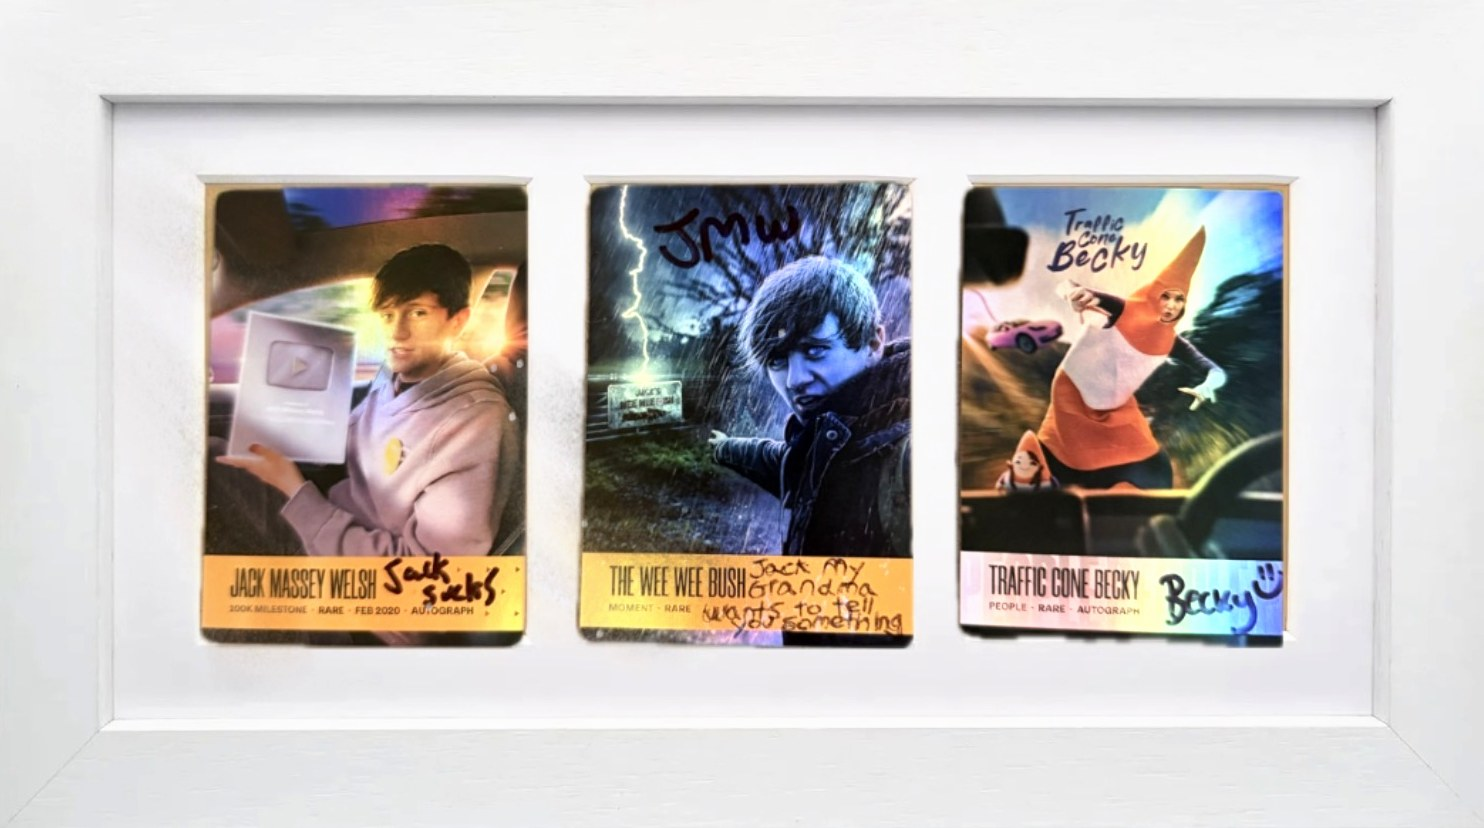
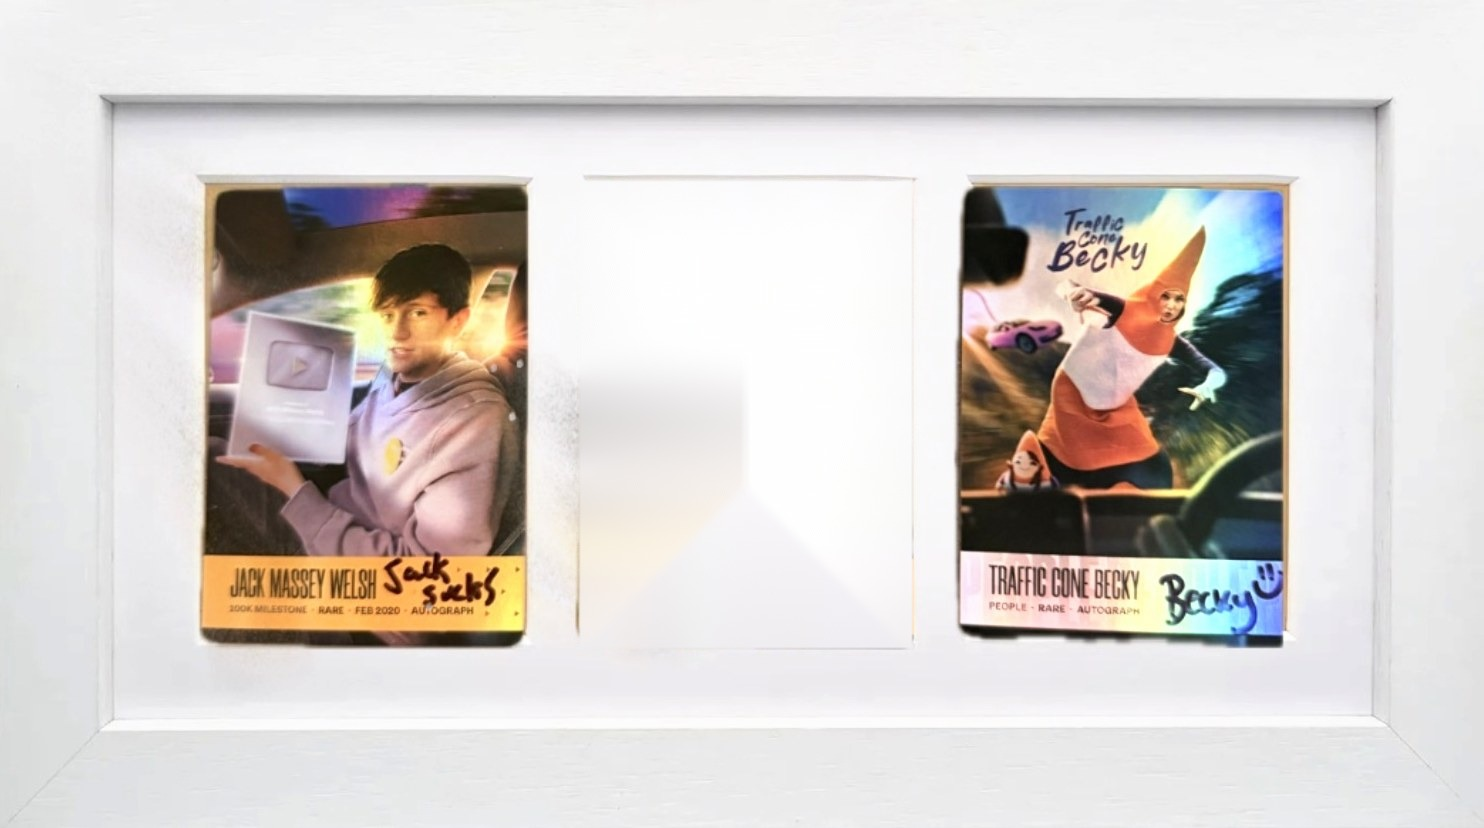
Empty the middle card slot, so no card is on the wall twice
Reversing an earlier call, because the reasoning behind it was wrong.

"Leave it how it is" was said when the frame photo was merely a little out of date. There
was no duplicate then. The impossible state, one physical card in two places, only came
into existence later, when the slab was built with that same card inside it. So the
instruction predated the problem it was being used to justify, and holding to it was
preserving a defect it was never about.

Every available state here is wrong in some way. The photograph shows a card that has
moved; an empty opening shows no card where there is one. But only one of them is
impossible, and impossible is worse than incomplete: a viewer can believe a slot is
between cards, and cannot believe the same signed card is in the frame and sealed in the
slab at the same time.

The mat is inpainted across the opening from its own surround, so it keeps the real
gradient. The panel's title, facts line and copy all now say two cards rather than three,
because a caption that contradicts the picture beside it is its own defect.

One command back, whenever the real card is known or the original is wanted:
    python3 src/swap-card.py 2 the-card.jpg
    python3 src/swap-card.py --restore

Changed region(s): [[0.372, 0.2114, 0.6199, 0.785]]

diff --git a/index.html b/index.html
@@ -635,16 +635,18 @@ const PIECES = [
     xIn:19.63, yIn:8.5, wIn:13.5,
     art:'art/cards.jpg', ratio:1.79,
     stamp:'the jack pack',
-    title:'Three cards, all three signed',
-    facts:'a three-opening frame, and he put a pen on every one',
+    title:'Two signed cards, and a gap',
+    facts:'two of three shown &nbsp;·&nbsp; he put a pen on every one',
     body:[
       'The <b>Jack Pack</b> is the bundle of merch JackSucksAtLife posts out. These are cards '+
       'from it, in a frame that exists because enough people needed exactly this.',
       'Left is <b>Jack Massey Welsh</b>, 200K Milestone, Feb 2020, signed <q>Jack sucks</q>. '+
       'Right is <b>Traffic Cone Becky</b>, signed <q>Becky</q> with a smiley face.',
-      'The middle slot has changed since this photograph. The card sitting in it here is '+
-      '<b>The Wee Wee Bush</b>, and that one has gone into the slab on the shelf below, which '+
-      'is where it earned its place. <span class="mark">Something else is in the frame now.</span>'
+      'The middle slot is showing empty here, and that is on purpose. <b>The Wee Wee Bush</b> '+
+      'was in it, and that card has gone into the slab on the shelf below, which is where it '+
+      'earned its place. <span class="mark">There is something else in the real frame now.</span> '+
+      'I have forgotten what, so rather than leave the same card sitting in two places at once, '+
+      'the slot waits.'
     ]
   },
   {
